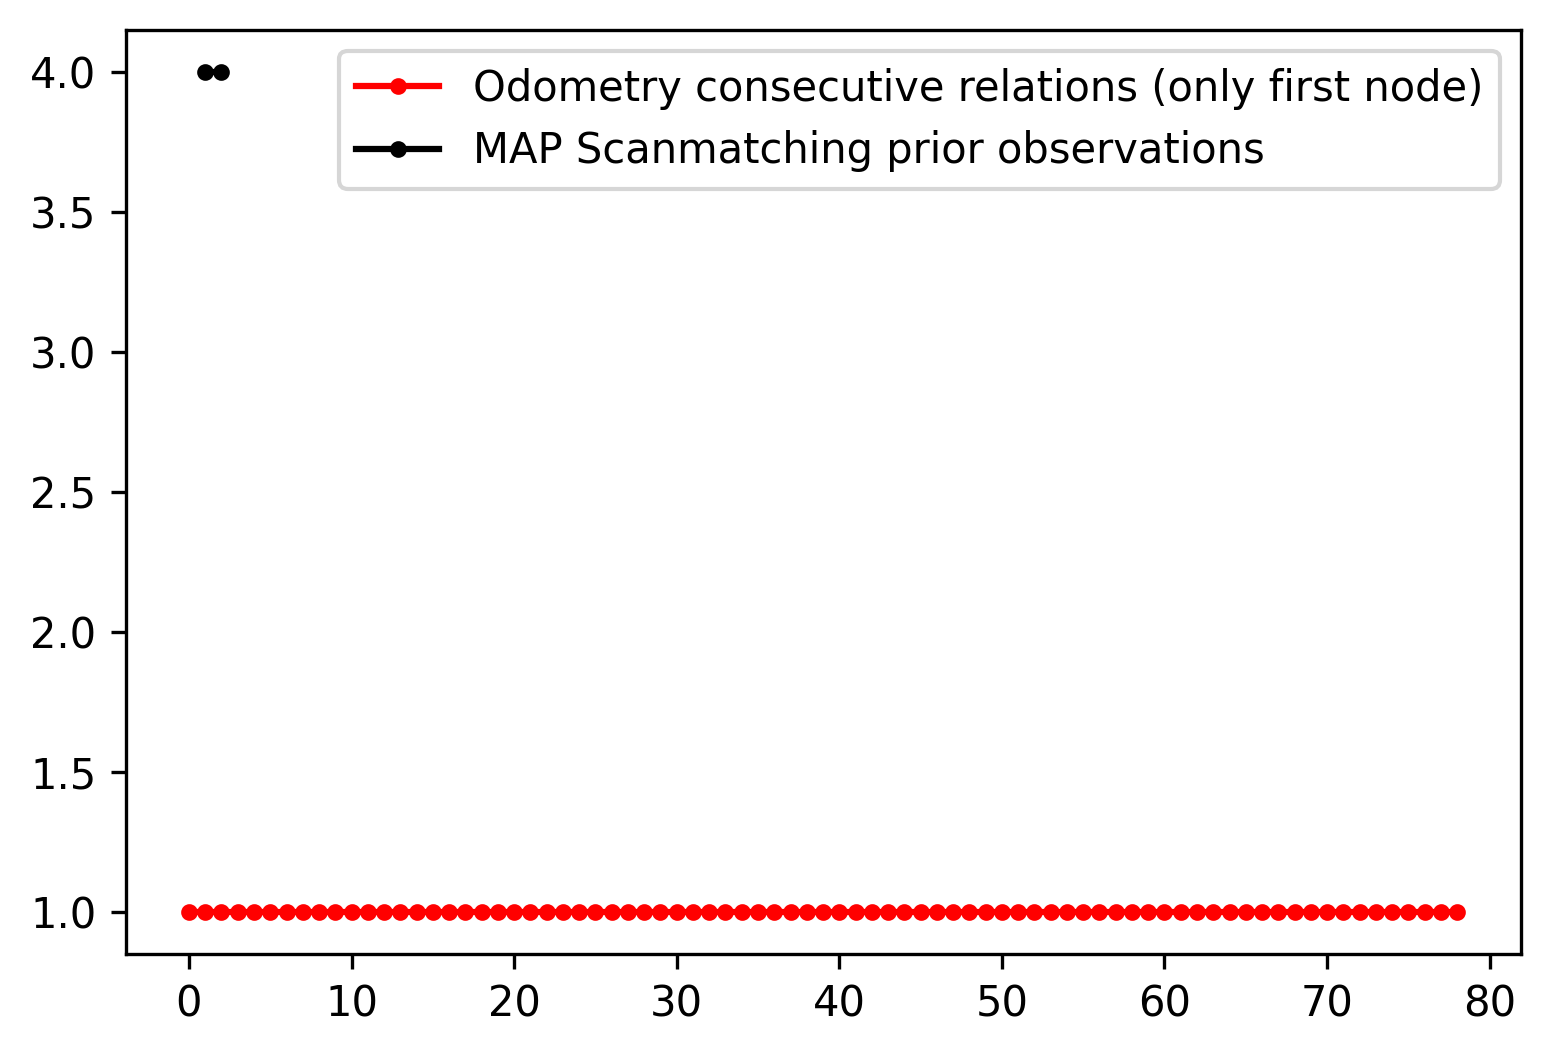
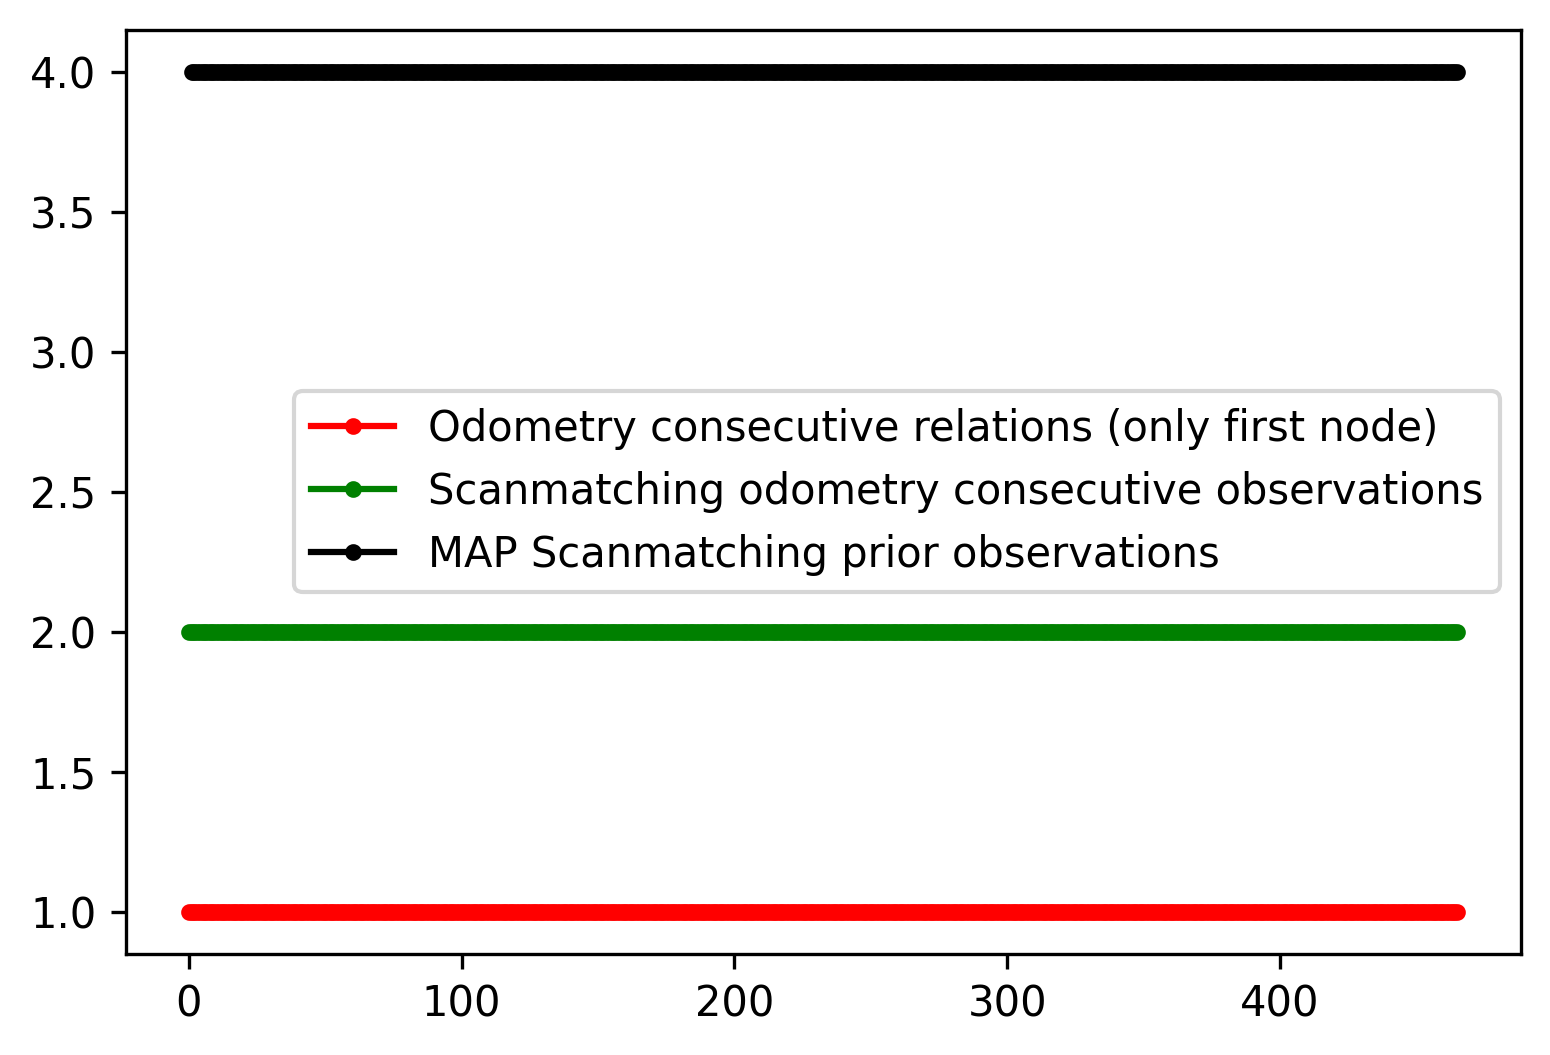
WORKING!

diff --git a/graphSLAM/helper_functions.py b/graphSLAM/helper_functions.py
@@ -60,6 +60,7 @@ def update_sm_observations(nodeloc):
     SM observations create relationships between states. The creation of new nodes in the graph is done
     with the odometry, which is faster.
     """
+    delta_threshold_s = PARAMETERS.config.get('graphslam').get('delta_threshold_s')
     print('UPDATING with last SM observations')
     if len(nodeloc.odom_sm_buffer) == 0:
         print("\033[91mCaution!!! No odometry SM in buffer yet.\033[0m")
@@ -77,8 +78,11 @@ def update_sm_observations(nodeloc):
     for i in range(first_index_in_graphslam, len(nodeloc.graphslam_times) - 1):
         time_graph1 = nodeloc.graphslam_times[i]
         time_graph2 = nodeloc.graphslam_times[i + 1]
-        smodoi, _ = nodeloc.odom_sm_buffer.interpolated_pose_at_time(time_graph1)
-        smodoj, _ = nodeloc.odom_sm_buffer.interpolated_pose_at_time(time_graph2)
+        # getting the closest pose in scanmatching
+        # smodoi, _ = nodeloc.odom_sm_buffer.interpolated_pose_at_time(time_graph1, delta_threshold_s=delta_threshold_s)
+        # smodoj, _ = nodeloc.odom_sm_buffer.interpolated_pose_at_time(time_graph2, delta_threshold_s=delta_threshold_s)
+        smodoi, _ = nodeloc.odom_sm_buffer.get_closest_pose_at_time(timestamp=time_graph1, delta_threshold_s=delta_threshold_s)
+        smodoj, _ = nodeloc.odom_sm_buffer.get_closest_pose_at_time(timestamp=time_graph2, delta_threshold_s=delta_threshold_s)
         if smodoi is None or smodoj is None:
             print('NO SMODO FOR these graphslam nodes, SKIPPING')
             continue
@@ -147,49 +151,32 @@ def update_prior_map_observations(nodeloc):
     if len(nodeloc.graphslam_times) == 0:
         print("\033[91mCaution!!! No graph yet.\033[0m")
         return
-
+    print('UPDATING with last GLOBAL SCANMATCHING MAPSM observations')
+    delta_threshold_s = PARAMETERS.config.get('graphslam').get('delta_threshold_s')
     # iterate from the last processed index in the graph, look for GPS and add them to the graph
     first_index_in_graphslam = nodeloc.last_processed_index['MAPSM']
     # running through the nodes of the graph (non visited yet). Looking for gps observations at that time
     for i in range(first_index_in_graphslam, len(nodeloc.graphslam_times)):
-    # for i in range(0, len(nodeloc.graphslam_times)):
         # get the corresponding time
         timestamp_i_in_graphslam = nodeloc.graphslam_times[i]
 
         # find the interpolation that corresponds to that particular time in the graph
-        prior_i, _ = nodeloc.map_sm_prior_buffer.interpolated_pose_at_time(timestamp_i_in_graphslam,
-                                                                        delta_threshold_s=3.0)
+        # prior_i, _ = nodeloc.map_sm_prior_buffer.interpolated_pose_at_time(timestamp_i_in_graphslam,
+        #                                                                 delta_threshold_s=3.0)
+
+        prior_i, _ = nodeloc.map_sm_prior_buffer.get_closest_pose_at_time(timestamp=timestamp_i_in_graphslam,
+                                                                          delta_threshold_s=delta_threshold_s)
+
         if prior_i is None:
-            print('No estimation found')
+            # print('No estimation found')
             continue
         Trobot_prior = prior_i.T()
         # add_prior_factor, this is the localization according to the map scanmatching node.
         nodeloc.graphslam.add_prior_factor(Trobot_prior, i, 'MAPSM')
         nodeloc.graphslam_observations_indices['MAPSM'].add(i)
         # caution, allowing for some search back in time!
-        nodeloc.last_processed_index['MAPSM'] = max(0, i - 15)
-
-
-    # # loop through the received prior estimations.
-    # # add them to the graph
-    # # caution: all the observations have to be processed
-    # # first_index = nodeloc.last_processed_index['MAPSM']
-    # # for i in range(first_index, len(nodeloc.map_sm_prior_buffer)):
-    # for i in range(len(nodeloc.map_sm_prior_buffer)):
-    #     index_graph_i = int(nodeloc.map_sm_prior_buffer_index[i])
-    #     # if the index in the graph has been processed: do not repeat.
-    #     if index_graph_i in nodeloc.graphslam_observations_indices['MAPSM']:
-    #         continue
-    #     prior_i = nodeloc.map_sm_prior_buffer[i]
-    #     Trobot_prior = prior_i.T()
-    #     # add_prior_factor, this is the localization according to the map scanmatching node.
-    #     nodeloc.graphslam.add_prior_factor(Trobot_prior, index_graph_i, 'MAPSM')
-    #     nodeloc.graphslam_observations_indices['MAPSM'].add(index_graph_i)
-        # nodeloc.last_processed_index['MAPSM'] = i + 1
-
-    # for i in range(k):
-    #     nodeloc.map_sm_prior_buffer.popleft()
-    #     nodeloc.map_sm_prior_buffer_index.pop()
+        # nodeloc.last_processed_index['MAPSM'] = max(0, i - 15)
+        nodeloc.last_processed_index['MAPSM'] = i
     nodeloc.optimization_index += 1
 
 def update_aruco_observations(nodeloc):

diff --git a/observations/posesbuffer.py b/observations/posesbuffer.py
@@ -115,22 +115,54 @@ class PosesBuffer():
         else:
             return idx2 #, t2
 
+    # def get_closest_pose_at_time(self, timestamp, delta_threshold_s=1.0):
+    #     """
+    #     Find a Pose for timestamp, the one that is closets to timestamp.
+    #     """
+    #     print('closest_pose_at_time!')
+    #     idx1, t1, idx2, t2 = self.find_closest_times_around_t_bisect(timestamp)
+    #     d1 = abs((timestamp - t1) / 1e9)
+    #     d2 = abs((t2 - timestamp) / 1e9)
+    #     # print('Time Odo time differences times: ', d1, d2)
+    #     if (d1 > delta_threshold_s) and (d2 > delta_threshold_s):
+    #         print('get_index_closest_to_time could not find any close time')
+    #         return None
+    #     if d1 <= d2:
+    #         return self.poses[idx1], t1
+    #     else:
+    #         return self.poses[idx2], t2
+
     def get_closest_pose_at_time(self, timestamp, delta_threshold_s=1.0):
         """
         Find a Pose for timestamp, the one that is closets to timestamp.
         """
-        print('closest_pose_at_time!')
-        idx1, t1, idx2, t2 = self.find_closest_times_around_t_bisect(timestamp)
-        d1 = abs((timestamp - t1) / 1e9)
-        d2 = abs((t2 - timestamp) / 1e9)
-        # print('Time Odo time differences times: ', d1, d2)
-        if (d1 > delta_threshold_s) and (d2 > delta_threshold_s):
-            print('get_index_closest_to_time could not find any close time')
-            return None
-        if d1 <= d2:
-            return self.poses[idx1], t1
+        if len(self.times) == 0:
+            print('get_closest_pose_at_time_fast. No poses in array.')
+            return None, None
+        idx = self.find_closest_index(timestamp=timestamp)
+        # print('len(self.times): ', len(self.times))
+        # print('idx is: ', idx)
+        retrieved_time = self.times[idx]
+        dt = abs(retrieved_time-timestamp)
+        # print('get_closest_pose_at_time_fast. Absolute time difference: ', dt)
+        if dt <= delta_threshold_s:
+            # print('REturning get closest pose at time: ', self.poses[idx], self.times[idx])
+            return self.poses[idx], self.times[idx]
+        return None, None
+
+    def find_closest_index(self, timestamp):
+        # Find the index where t would be inserted in sorted_times
+        idx = bisect.bisect_left(self.times, timestamp)
+        if idx == 0:
+            return 0
+        if idx == len(self.times):
+            return len(self.times)-1
+        before = self.times[idx-1]
+        after = self.times[idx]
+        if abs(after-timestamp) < abs(timestamp-before):
+            return idx
         else:
-            return self.poses[idx2], t2
+            return idx-1
 
     # def get_closest_pose_at_time(self, timestamp, delta_threshold_s=1):
     #     """

diff --git a/run_scanmatcher.py b/run_scanmatcher.py
@@ -130,7 +130,6 @@ class ScanmatchingNode:
             self.publish_pose(Tg, timestamp=timestamp)
         return
 
-
     def publish_pose(self, T, timestamp):
         """
         Publishing the global transform of the scanmatching at that time.
@@ -201,7 +200,7 @@ class ScanmatchingNode:
 
     def perform_local_scanmatching(self, msg):
         start = time.time()
-        delta_threshold_s = PARAMETERS.config.get('scanmatcher').get('initial_transform').get('delta_threshold_s')
+        delta_threshold_s = PARAMETERS.config.get('scanmatcher').get('delta_threshold_s')
         voxel_size = PARAMETERS.config.get('scanmatcher').get('voxel_size')
         voxel_size_normals = PARAMETERS.config.get('scanmatcher').get('normals').get('voxel_size_normals')
         max_nn_normals = PARAMETERS.config.get('scanmatcher').get('normals').get('max_nn_normals')
@@ -210,7 +209,7 @@ class ScanmatchingNode:
 
         self.time_diffs.append(timestamp - self.odombuffer.times[-1])
 
-        if len(self.odombuffer.times) < 2:
+        if len(self.odombuffer.times) == 0:
             print('Received pointcloud but no odometry yet. Waiting for odometry')
             return
 
@@ -222,7 +221,7 @@ class ScanmatchingNode:
             # this may happen only when the system is startting and no odometry readings exist
             if odo_ti is None:
                 print('No corresponding odo_ti found, skipping')
-                print(100 * "odo_ti error")
+                print(10 * "odo_tI error")
                 # time.sleep(self.time_sleep_synchro)
                 # self.time_sleep_synchro += 0.5
                 return
@@ -236,8 +235,8 @@ class ScanmatchingNode:
             T0 = HomogeneousMatrix()
             # adding global transform and pcd
             self.global_transforms.append((T0, timestamp))
-            self.publish_pose(T0, timestamp=timestamp)
-            return None
+            # self.publish_pose(T0, timestamp=timestamp)
+            return T0
 
         # read the newly received pointcloud odometry
         odo_tj, _ = self.odombuffer.get_closest_pose_at_time(timestamp=timestamp, delta_threshold_s=delta_threshold_s)
@@ -245,7 +244,7 @@ class ScanmatchingNode:
         #                                                       delta_threshold_s=delta_threshold_s)
         if odo_tj is None:
             print('Caution: no interpolated odometry odo_tj found')
-            print(100*"odo_tj error")
+            print(10*"odo_tJ error")
             # time.sleep(self.time_sleep_synchro)
             # self.time_sleep_synchro+=0.5
             return None

diff --git a/run_graph_localizer.py b/run_graph_localizer.py
@@ -80,8 +80,6 @@ class LocalizationROSNode:
         self.aruco_observations_buffer = PosesBuffer(maxlen=5000)
         self.aruco_observations_ids = deque(maxlen=5000)
 
-        # the lidar buffer
-        # self.pcdbuffer = LidarBuffer(maxlen=30)
 
         self.skip_optimization = 5
         self.current_key = 0
@@ -170,6 +168,7 @@ class LocalizationROSNode:
         pose = Pose()
         pose.from_message(msg.pose.pose)
         self.odom_sm_buffer.append(pose, timestamp)
+        update_sm_observations(self)
 
     def map_sm_global_pose_callback(self, msg):
         """
@@ -180,6 +179,7 @@ class LocalizationROSNode:
         pose = Pose()
         pose.from_message(msg.pose.pose)
         self.map_sm_prior_buffer.append(pose, timestamp)
+        update_prior_map_observations(self)
 
     def gps_callback(self, msg):
         """
@@ -214,15 +214,15 @@ class LocalizationROSNode:
         These observations can be integrated in the graph with some delay in time.
         """
         start_time = time.time()
-        print('UPDATE OBSERVATIONS!! SM, ODO, GPS')
-        update_sm_observations(self)
+        # print('UPDATE OBSERVATIONS!! SM, ODO, GPS')
+        # update_sm_observations(self)
         # caution, called from the callback at each odometry
         # new states are created using odometry and scanmatching odometry is added as a restriction
         # update_odo_observations(self)
         # update_gps_observations(self)
         # add the prior observations with respect to the map. I.e. the localization found in the other node:
         # scanmatcher_to_map
-        update_prior_map_observations(self)
+        # update_prior_map_observations(self)
         # update_aruco_observations(self)
 
         if self.optimization_index % self.skip_optimization == 0:
@@ -247,7 +247,6 @@ class LocalizationROSNode:
         end_time = time.time()
         print(f"update_graph_timer_callback time:, {end_time - start_time:.4f} seconds")
         self.update_graph_timer_callback_times.append(end_time - start_time)
-
 
     def publish_graph(self):
         """

diff --git a/run_check_timestamps.py b/run_check_timestamps.py
@@ -139,17 +139,17 @@ class CheckTimestampsNode:
             ax1.plot(odometry_times, marker='.', color='red', label='Tiempos odometria')
         odometry_scanmatching_times = np.array(self.odometry_scanmatching_times) - self.start_time
         if len(odometry_scanmatching_times) > 0:
-            ax1.plot(odometry_scanmatching_times, marker='.', color='green', label='Tiempos odometria scanmatching')
+            ax1.plot(odometry_scanmatching_times, marker='.', color='green', label='Tiempos local scanmatching')
         pcd_times = np.array(self.pcd_times)-self.start_time
         if len(pcd_times) > 0:
             ax1.plot(pcd_times, marker='.', color='blue', label='Pointcloud times')
         localized_pose_times = np.array(self.localized_pose_times) - self.start_time
         if len(localized_pose_times) > 0:
-            ax1.plot(localized_pose_times, marker='.', color='black', label='Localized pose times')
+            ax1.plot(localized_pose_times, marker='.', color='black', label='Localized pose times (LOCALIZATION)')
 
         prior_sm_gloal_map_pose_times = np.array(self.prior_sm_gloal_map_pose_times) - self.start_time
         if len(prior_sm_gloal_map_pose_times) > 0:
-            ax1.plot(prior_sm_gloal_map_pose_times, marker='.', color='yellow', label='Map pose localized')
+            ax1.plot(prior_sm_gloal_map_pose_times, marker='.', color='yellow', label='Map priors GLOBAL MAP scanmatching')
 
         ax1.legend()
         ax1.grid()
